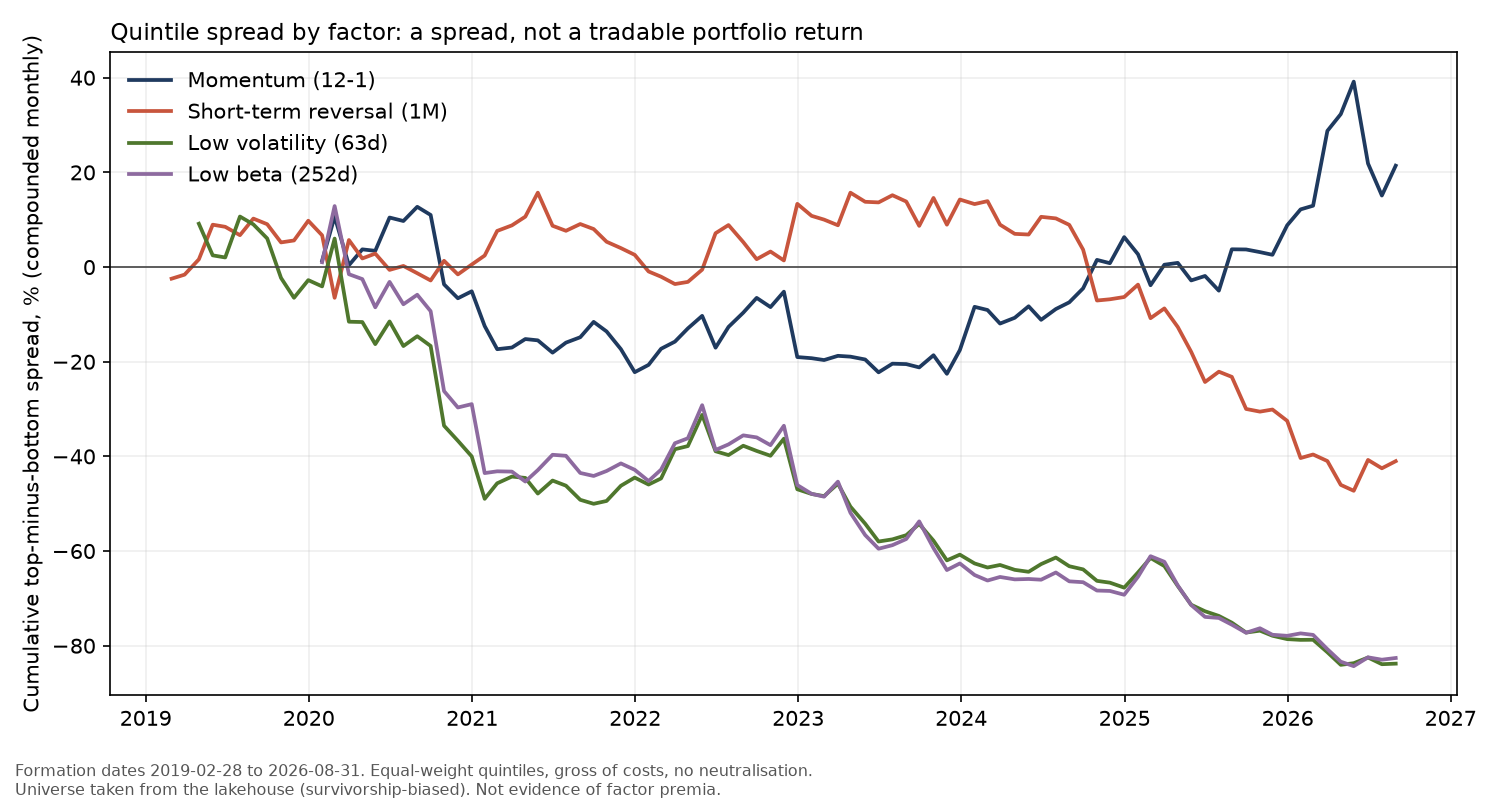
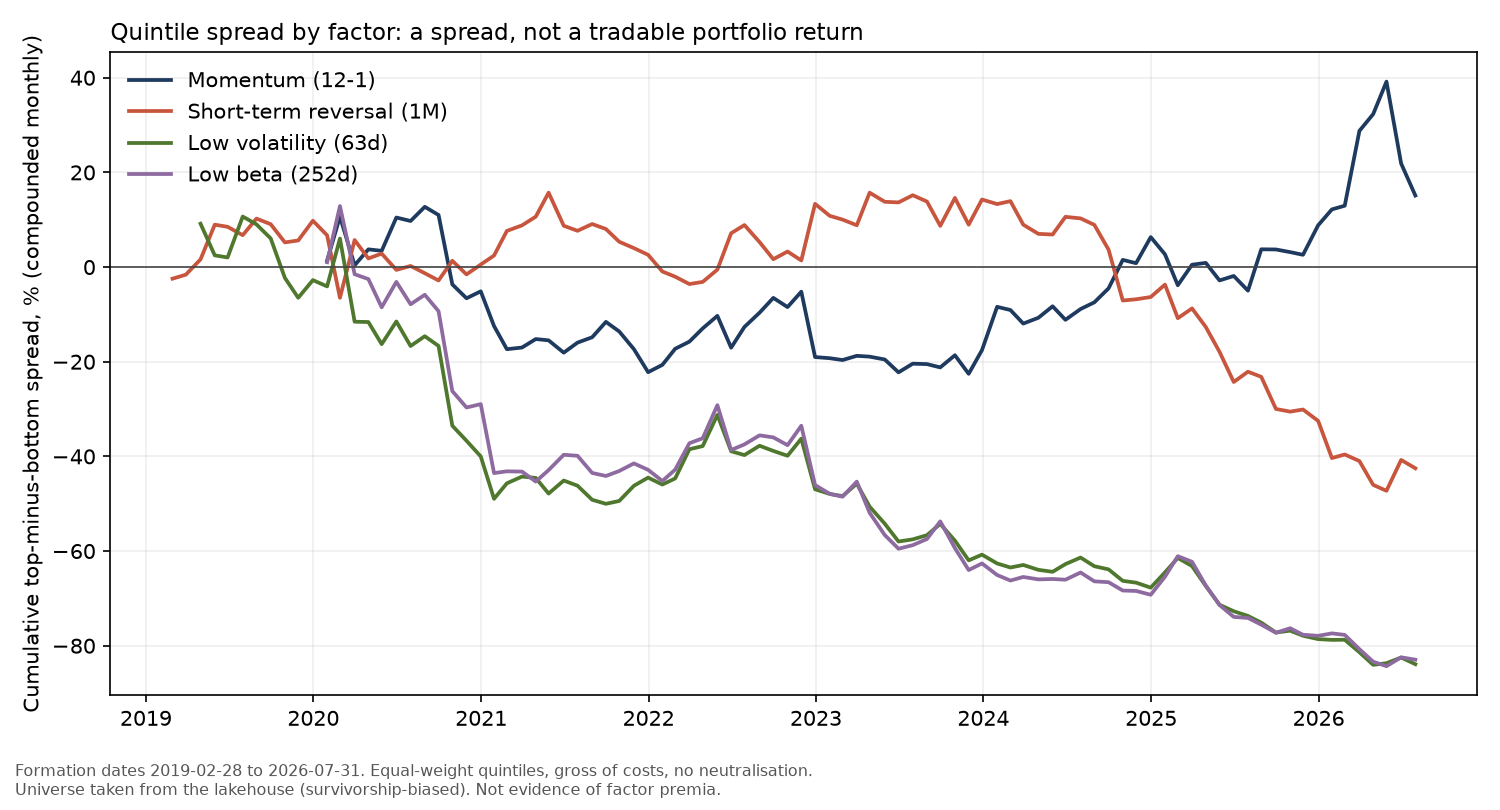
Exclude the latest partial month from rebalancing; generate the README results table from data

diff --git a/src/factor_mart/report.py b/src/factor_mart/report.py
@@ -1,6 +1,7 @@
 """Export the marts to CSV and draw the two README charts.
 
     python -m factor_mart.report [--backend duckdb|snowflake] [--duckdb-path factor_mart.duckdb] [--out results]
+                                 [--update-readme README.md]
 
 Writes into --out: the four small mart tables as CSV, cumulative_ls_spread.png, ic_by_month.png and
 MANIFEST.txt (engine, row counts, window, generation time). The CSVs make the numbers in the README
@@ -46,6 +47,69 @@ def _read(backend: Backend, schema: str, table: str, sort: list[str]) -> pd.Data
 def _footer(first, last) -> str:
     return (f"Formation dates {first} to {last}. Equal-weight quintiles, gross of costs, no neutralisation.\n"
             "Universe taken from the lakehouse (survivorship-biased). Not evidence of factor premia.")
+
+
+RESULTS_START = "<!-- results:start -->"
+RESULTS_END = "<!-- results:end -->"
+
+
+def results_block(summary: pd.DataFrame, labels: dict, order: list[str], first, last) -> str:
+    """Markdown table + data-driven bullets, so README numbers are never typed by hand."""
+    s = summary.set_index("factor")
+    rows, stats = [], {}
+    for f in order:
+        if f not in s.index:
+            continue
+        r = s.loc[f]
+        n = int(r["n_months"])
+        t_ls = float(r["ls_sharpe"]) * np.sqrt(n / 12)
+        t_ic = float(r["icir"]) * np.sqrt(n)
+        stats[f] = (t_ls, t_ic, float(r["ann_ls_return"]))
+        rows.append(f"| {labels.get(f, f)} | {n} | {r['ann_ls_return'] * 100:+.1f}% | {r['ann_ls_vol'] * 100:.1f}% | "
+                    f"{r['ls_sharpe']:.2f} | {r['hit_rate'] * 100:.1f}% | {r['mean_ic']:+.3f} | {r['icir']:.2f} | "
+                    f"{t_ls:.2f} | {t_ic:.2f} |")
+
+    name = lambda f: labels.get(f, f)  # noqa: E731
+    flat = [f for f, (tl, ti, _) in stats.items() if abs(tl) < 2 and abs(ti) < 2]
+    spread = [f for f, (tl, ti, _) in stats.items() if abs(tl) >= 2]
+    ic_only = [f for f, (tl, ti, _) in stats.items() if abs(tl) < 2 and abs(ti) >= 2]
+    bullets = []
+    if flat:
+        bullets.append("- Indistinguishable from zero on both the quintile spread and the IC (naive |t| < 2): "
+                       + ", ".join(name(f) for f in flat) + ".")
+    if spread:
+        bullets.append("- Quintile spread distinguishable from zero at naive |t| >= 2: "
+                       + "; ".join(f"{name(f)} (t = {stats[f][0]:.2f}, {stats[f][2] * 100:+.1f}% a year)" for f in spread) + ".")
+    if ic_only:
+        bullets.append("- IC (but not the spread) distinguishable from zero at naive |t| >= 2: "
+                       + ", ".join(f"{name(f)} (t = {stats[f][1]:.2f})" for f in ic_only) + ".")
+    bullets.append("- None of this is evidence about factor premia in general (see limitations).")
+
+    body = [
+        f"Real lakehouse data, formation dates {first} to {last} (each return is earned over the following month). "
+        "L/S = top minus bottom quintile, gross of costs.",
+        "",
+        "| Factor | Months | Ann. L/S return | Ann. L/S vol | L/S Sharpe | Hit rate | Mean IC | ICIR | t (L/S)* | t (IC)* |",
+        "|---|---|---|---|---|---|---|---|---|---|",
+        *rows,
+        "",
+        "\\*Naive t-statistics derived from the table: t(L/S) = Sharpe x sqrt(months/12), t(IC) = ICIR x sqrt(months); "
+        "no adjustment for autocorrelation or multiple testing.",
+        "",
+        "What the numbers show:",
+        *bullets,
+    ]
+    return RESULTS_START + "\n" + "\n".join(body) + "\n" + RESULTS_END
+
+
+def update_readme(path: Path | str, block: str) -> None:
+    p = Path(path)
+    text = p.read_text(encoding="utf-8")
+    if RESULTS_START not in text or RESULTS_END not in text:
+        raise ValueError(f"{p} has no {RESULTS_START} ... {RESULTS_END} markers")
+    head, rest = text.split(RESULTS_START, 1)
+    _, tail = rest.split(RESULTS_END, 1)
+    p.write_text(head + block + tail, encoding="utf-8", newline="\n")
 
 
 def _cumulative_chart(returns: pd.DataFrame, order: list[str], labels: dict, path: Path, footer: str) -> None:
@@ -95,7 +159,7 @@ def _ic_chart(ic: pd.DataFrame, order: list[str], labels: dict, path: Path, foot
 
 
 def generate(backend: Backend, out_dir: Path | str, schema: str = "core",
-             now: dt.datetime | None = None) -> list[Path]:
+             now: dt.datetime | None = None, readme: Path | str | None = None) -> list[Path]:
     out = Path(out_dir)
     out.mkdir(parents=True, exist_ok=True)
     written: list[Path] = []
@@ -112,6 +176,8 @@ def generate(backend: Backend, out_dir: Path | str, schema: str = "core",
     returns, ic = frames["mart_factor_returns"], frames["mart_ic"]
     first, last = returns["rebalance_date"].min(), returns["rebalance_date"].max()
     footer = _footer(first, last)
+    if readme:
+        update_readme(readme, results_block(frames["mart_factor_summary"], labels, order, first, last))
 
     p = out / "cumulative_ls_spread.png"
     _cumulative_chart(returns, order, labels, p, footer)
@@ -143,6 +209,7 @@ def main(argv: list[str] | None = None) -> int:
     ap.add_argument("--duckdb-path", default="factor_mart.duckdb")
     ap.add_argument("--schema", default="core")
     ap.add_argument("--out", default="results")
+    ap.add_argument("--update-readme", default=None, help="rewrite the results block between the markers in this README")
     args = ap.parse_args(argv)
 
     if args.backend == "duckdb":
@@ -155,7 +222,7 @@ def main(argv: list[str] | None = None) -> int:
         from factor_mart.config import SnowflakeSettings
         backend = SnowflakeBackend(SnowflakeSettings.from_env())
 
-    for p in generate(backend, args.out, args.schema):
+    for p in generate(backend, args.out, args.schema, readme=args.update_readme):
         print(f"wrote {p}")
     return 0
 

diff --git a/tests/test_report.py b/tests/test_report.py
@@ -36,3 +36,25 @@ def test_report_writes_csvs_charts_and_manifest(tmp_path):
 
     manifest = (tmp_path / "results" / "MANIFEST.txt").read_text()
     assert "generated: 2026-10-01 00:00 UTC" in manifest and "engine: duckdb" in manifest
+
+
+def test_results_block_is_data_driven_and_readme_update_preserves_surroundings(tmp_path):
+    from factor_mart.report import RESULTS_END, RESULTS_START, results_block
+
+    summary = pd.DataFrame({
+        "factor": ["mom_12_1", "vol_63d", "rev_21d"], "n_months": [80, 89, 91],
+        "ann_ls_return": [0.04, -0.21, 0.01], "ann_ls_vol": [0.17, 0.22, 0.15], "ls_sharpe": [0.2547, -0.9474, 0.07],
+        "hit_rate": [0.53, 0.37, 0.50], "mean_ic": [0.01, -0.04, 0.03], "icir": [0.07, -0.14, 0.25]})
+    labels = {"mom_12_1": "Momentum", "vol_63d": "Low vol", "rev_21d": "Reversal"}
+    blk = results_block(summary, labels, ["mom_12_1", "rev_21d", "vol_63d"], "2019-02-28", "2026-07-31")
+    assert "Quintile spread distinguishable from zero at naive |t| >= 2: Low vol (t = -2.58" in blk
+    assert "IC (but not the spread) distinguishable" in blk and "Reversal (t = 2.38)" in blk   # 0.25*sqrt(91)
+    assert "Indistinguishable from zero on both" in blk and "Momentum" in blk.split("Indistinguishable")[1]
+    assert blk.startswith(RESULTS_START) and blk.endswith(RESULTS_END)
+
+    readme = tmp_path / "README.md"
+    readme.write_text(f"intro\n{RESULTS_START}\nOLD\n{RESULTS_END}\noutro\n", encoding="utf-8")
+    generate(_built(), tmp_path / "r", readme=readme)
+    new = readme.read_text(encoding="utf-8")
+    assert new.startswith("intro\n") and new.endswith("\noutro\n") and "OLD" not in new
+    assert new.count("| Momentum") == 1 and new.count(RESULTS_START) == 1

diff --git a/tests/test_models.py b/tests/test_models.py
@@ -142,3 +142,21 @@ def test_checks_warn_when_most_months_unscored(backend, params):
     build(backend, params, pd.concat([px, early], ignore_index=True))
     _fails, warns = run_checks(backend, params)
     assert any("calendar months" in w for w in warns)
+
+
+def test_latest_partial_month_is_not_a_rebalance_date(backend, params):
+    px = make_prices([0.8, 0.9, 1.0, 1.1, 1.2, 1.3], n_days=300, noise=0.01)  # ends mid-month
+    build(backend, params, px, only=["00", "01", "02"])
+    last_market = backend.query_df("SELECT MAX(trade_date) AS d FROM core.market").iloc[0, 0]
+    reb = backend.query_df("SELECT rebalance_date FROM core.rebalance_dates")
+    last_ym = last_market.year * 12 + last_market.month
+    assert (pd.to_datetime(reb.rebalance_date).dt.year * 12 + pd.to_datetime(reb.rebalance_date).dt.month < last_ym).all()
+
+
+def test_no_forward_return_ends_in_the_partial_month(backend, params):
+    betas = np.linspace(0.4, 1.6, 20)
+    build(backend, params, make_prices(betas, n_days=700, noise=0.006))
+    last_market = backend.query_df("SELECT MAX(trade_date) AS d FROM core.market").iloc[0, 0]
+    ends = backend.query_df("SELECT MAX(rebalance_date) AS d FROM core.fwd_returns WHERE fwd_ret_1m IS NOT NULL").iloc[0, 0]
+    # the last formation date that has a forward return must be at least one full month before the data end
+    assert (last_market.year * 12 + last_market.month) - (ends.year * 12 + ends.month) >= 2

diff --git a/README.md b/README.md
@@ -9,10 +9,10 @@ top (not built yet). The point is the engineering - **not** a claim that any fac
 ## Verification status (as of 2026-10-01)
 | Claim | Status |
 |---|---|
-| SQL logic correct | **Demonstrated** - 25 tests on DuckDB: exact beta recovery on noise-free factor data, momentum/reversal vs a pandas reference, zero vol for constant returns, gap handling, perfect +/-1 IC and monotone quintiles on constructed data, injected-duplicate detection, parity-checker self-tests |
+| SQL logic correct | **Demonstrated** - 28 tests on DuckDB: exact beta recovery on noise-free factor data, momentum/reversal vs a pandas reference, zero vol for constant returns, gap handling, perfect +/-1 IC and monotone quintiles on constructed data, injected-duplicate detection, parity-checker self-tests |
 | Pipeline runs on real data | **Demonstrated** - lakehouse consensus prices: 957,361 rows, 503 tickers after de-duplication; all post-run checks pass |
 | Pipeline runs on Snowflake | **Demonstrated** - full run on a Snowflake trial account, key-pair authentication, all checks pass |
-| DuckDB and Snowflake agree | **Demonstrated** - `python -m factor_mart.parity`: identical row counts on all 11 tables, 0 quintile disagreements across 169,289 rows, max score difference 8e-15, summary statistics equal to float precision. The check found one real engine difference (Snowflake's `AVG` over decimal literals rounds to 6 places, off by 4.8e-7 on `hit_rate`); fixed by casting to DOUBLE |
+| DuckDB and Snowflake agree | **Demonstrated** - `python -m factor_mart.parity`: identical row counts on all 11 tables, zero quintile disagreements across every scored row, score differences at float precision (~1e-14), summary statistics equal to float precision. The check found one real engine difference (Snowflake's `AVG` over decimal literals rounds to 6 places, off by 4.8e-7 on `hit_rate`); fixed by casting to DOUBLE |
 | CI | **Demonstrated** - GitHub Actions runs the DuckDB test suite on Python 3.12 and 3.14 for every push (badge above). The Snowflake load and the parity check need credentials and are run manually |
 | Results reproducible without a warehouse | **Demonstrated** - `results/` holds the four mart tables as CSV plus a manifest; `python -m factor_mart.report` regenerates the CSVs and charts |
 | Power BI model / DAX | **Not built.** `powerbi/` holds the DAX and model spec only; its reconciliation page is the planned test |
@@ -33,7 +33,7 @@ top (not built yet). The point is the engineering - **not** a claim that any fac
 Source: `fact_price_daily_consensus` joined to `dim_security` (ticker) and `dim_date` (date); query in
 `queries/lakehouse_consensus.sql`. Observed in the author's lakehouse on 2026-10-01 (counts will drift):
 - 957k rows after de-duplication, 503 tickers. Raw date range 2009-2026, but **most tickers start in 2019**,
-  so the scored window is 2019-02 to 2026-09 (80 monthly observations for momentum/beta, 89-91 for vol/reversal).
+  so the scored window starts in 2019 (roughly 80-90 monthly observations per factor, see the results table).
 - `dim_security` is slowly-changing. Six tickers (AAPL, AMZN, MSFT, ZBH, ZBRA, ZTS) carry more than one
   `security_key`, producing 11,580 duplicate (ticker, date) rows. Prices differ only at float-rounding
   level (relative spread ~1e-7); `--dup-tol 1e-5` collapses a duplicate group only within that tolerance
@@ -45,32 +45,35 @@ Source: `fact_price_daily_consensus` joined to `dim_security` (ticker) and `dim_
 - Market proxy = equal-weight universe mean return (includes the stock itself).
 - Signals: 12-1 momentum (t-252 to t-21 rows), 21-row reversal, 63-obs annualised vol, 252-obs beta. Windows must be complete and calendar-sane or the value is NULL.
 - Rolling statistics use SUM/COUNT window sums rather than STDDEV/COVAR window functions, for portability.
-- Month-end rebalance (last market date in month); z-score per factor-month, winsorised at +/-3, multiplied by direction so higher = better; NTILE(5); L/S = Q5 - Q1 equal-weight, earned over the following month.
+- Month-end rebalance (last market date in each complete calendar month; the latest month in the data is excluded because it may be partial, so no return is a stub period); z-score per factor-month, winsorised at +/-3, multiplied by direction so higher = better; NTILE(5); L/S = Q5 - Q1 equal-weight, earned over the following month.
 - IC = rank correlation of score vs forward return. Annualisation = mean x 12 and stdev x sqrt(12) (arithmetic simplification).
 
 ## Results (provisional - read the limitations first)
-Real lakehouse data, 2019-02 to 2026-09, run of 2026-10-01. L/S = top minus bottom quintile, gross of costs.
+<!-- results:start -->
+Real lakehouse data, formation dates 2019-02-28 to 2026-07-31 (each return is earned over the following month). L/S = top minus bottom quintile, gross of costs.
 
 | Factor | Months | Ann. L/S return | Ann. L/S vol | L/S Sharpe | Hit rate | Mean IC | ICIR | t (L/S)* | t (IC)* |
 |---|---|---|---|---|---|---|---|---|---|
-| Momentum 12-1 | 80 | +4.4% | 17.4% | 0.25 | 53.8% | +0.014 | 0.07 | 0.66 | 0.64 |
-| Reversal 1M | 91 | -5.7% | 15.6% | -0.37 | 41.8% | -0.012 | -0.07 | -1.01 | -0.64 |
-| Low volatility 63d | 89 | -21.6% | 22.8% | -0.95 | 37.1% | -0.036 | -0.14 | -2.58 | -1.35 |
-| Low beta 252d | 80 | -22.7% | 25.2% | -0.90 | 38.8% | -0.043 | -0.15 | -2.32 | -1.34 |
+| Momentum (12-1) | 79 | +3.7% | 17.4% | 0.21 | 53.2% | +0.008 | 0.05 | 0.54 | 0.40 |
+| Short-term reversal (1M) | 90 | -6.1% | 15.7% | -0.39 | 41.1% | -0.014 | -0.08 | -1.07 | -0.78 |
+| Low volatility (63d) | 88 | -22.0% | 22.9% | -0.96 | 36.4% | -0.037 | -0.15 | -2.59 | -1.40 |
+| Low beta (252d) | 79 | -23.3% | 25.3% | -0.92 | 38.0% | -0.045 | -0.16 | -2.36 | -1.41 |
 
-\*Naive t-statistics derived from the table: t(L/S) = Sharpe x sqrt(months/12), t(IC) = ICIR x sqrt(months); no
-adjustment for autocorrelation or multiple testing.
+\*Naive t-statistics derived from the table: t(L/S) = Sharpe x sqrt(months/12), t(IC) = ICIR x sqrt(months); no adjustment for autocorrelation or multiple testing.
+
+What the numbers show:
+- Indistinguishable from zero on both the quintile spread and the IC (naive |t| < 2): Momentum (12-1), Short-term reversal (1M).
+- Quintile spread distinguishable from zero at naive |t| >= 2: Low volatility (63d) (t = -2.59, -22.0% a year); Low beta (252d) (t = -2.36, -23.3% a year).
+- None of this is evidence about factor premia in general (see limitations).
+<!-- results:end -->
 
 ![Cumulative top-minus-bottom quintile spread by factor](results/cumulative_ls_spread.png)
 
 ![Monthly rank IC by factor](results/ic_by_month.png)
 
-The numbers above and the charts come from the snapshot in [`results/`](results/) (see `results/MANIFEST.txt`).
+The table and charts come from the snapshot in [`results/`](results/) (see `results/MANIFEST.txt`); the table is generated from the data, not typed.
 
-What this does and does not show:
-- Momentum and reversal are statistically indistinguishable from zero (|t| about 1 or less). No factor's mean IC is distinguishable from zero (|t| < 1.4).
-- The low-volatility and low-beta quintile spreads are negative with naive |t| of 2.3-2.6 over 80-89 months. Inference, not tested here: consistent with high-beta/growth leadership and the 2020 rebound in this window; there is no sector or size neutralisation to separate those effects.
-- None of this is evidence about factor premia in general (see limitations).
+Interpretation (inference, untested here): any sign pattern may reflect this sample window (for example the 2020 rebound and high-beta/growth leadership) and the lack of sector or size neutralisation. This repo tests neither explanation.
 
 ## Known limitations (state these in interviews before a reviewer does)
 - **Survivorship and look-ahead bias:** the scored universe is today's constituent list back-filled. Evidence from this run: PLTR has forward returns from the 2020-10-30 formation date and SMCI from 2023-04-28, but the index added them in September 2024 and March 2024 (index-join dates are from the public record, not verified in this repo). Names that left the index and delisted names are absent, and names are included before they qualified, so spreads here are not what an investor could have earned.
@@ -92,7 +95,7 @@ python -m factor_mart run --backend duckdb --postgres-url $env:PGURL --query-fil
 # Snowflake: run snowflake\00_setup.sql once in Snowsight, copy .env.example to .env (key-pair auth), then
 python -m factor_mart run --backend snowflake --postgres-url $env:PGURL --query-file queries\lakehouse_consensus.sql --dup-tol 1e-5 --min-universe 30
 python -m factor_mart.parity      # DuckDB vs Snowflake: must end in PARITY OK
-python -m factor_mart.report      # results/ : CSV snapshot, two charts, manifest
+python -m factor_mart.report --update-readme README.md   # results/ : CSV snapshot, two charts, manifest; rewrites the results table
 ```
 Input must expose `ticker, trade_date, adj_close`; alias columns in the query file if your table differs.
 
